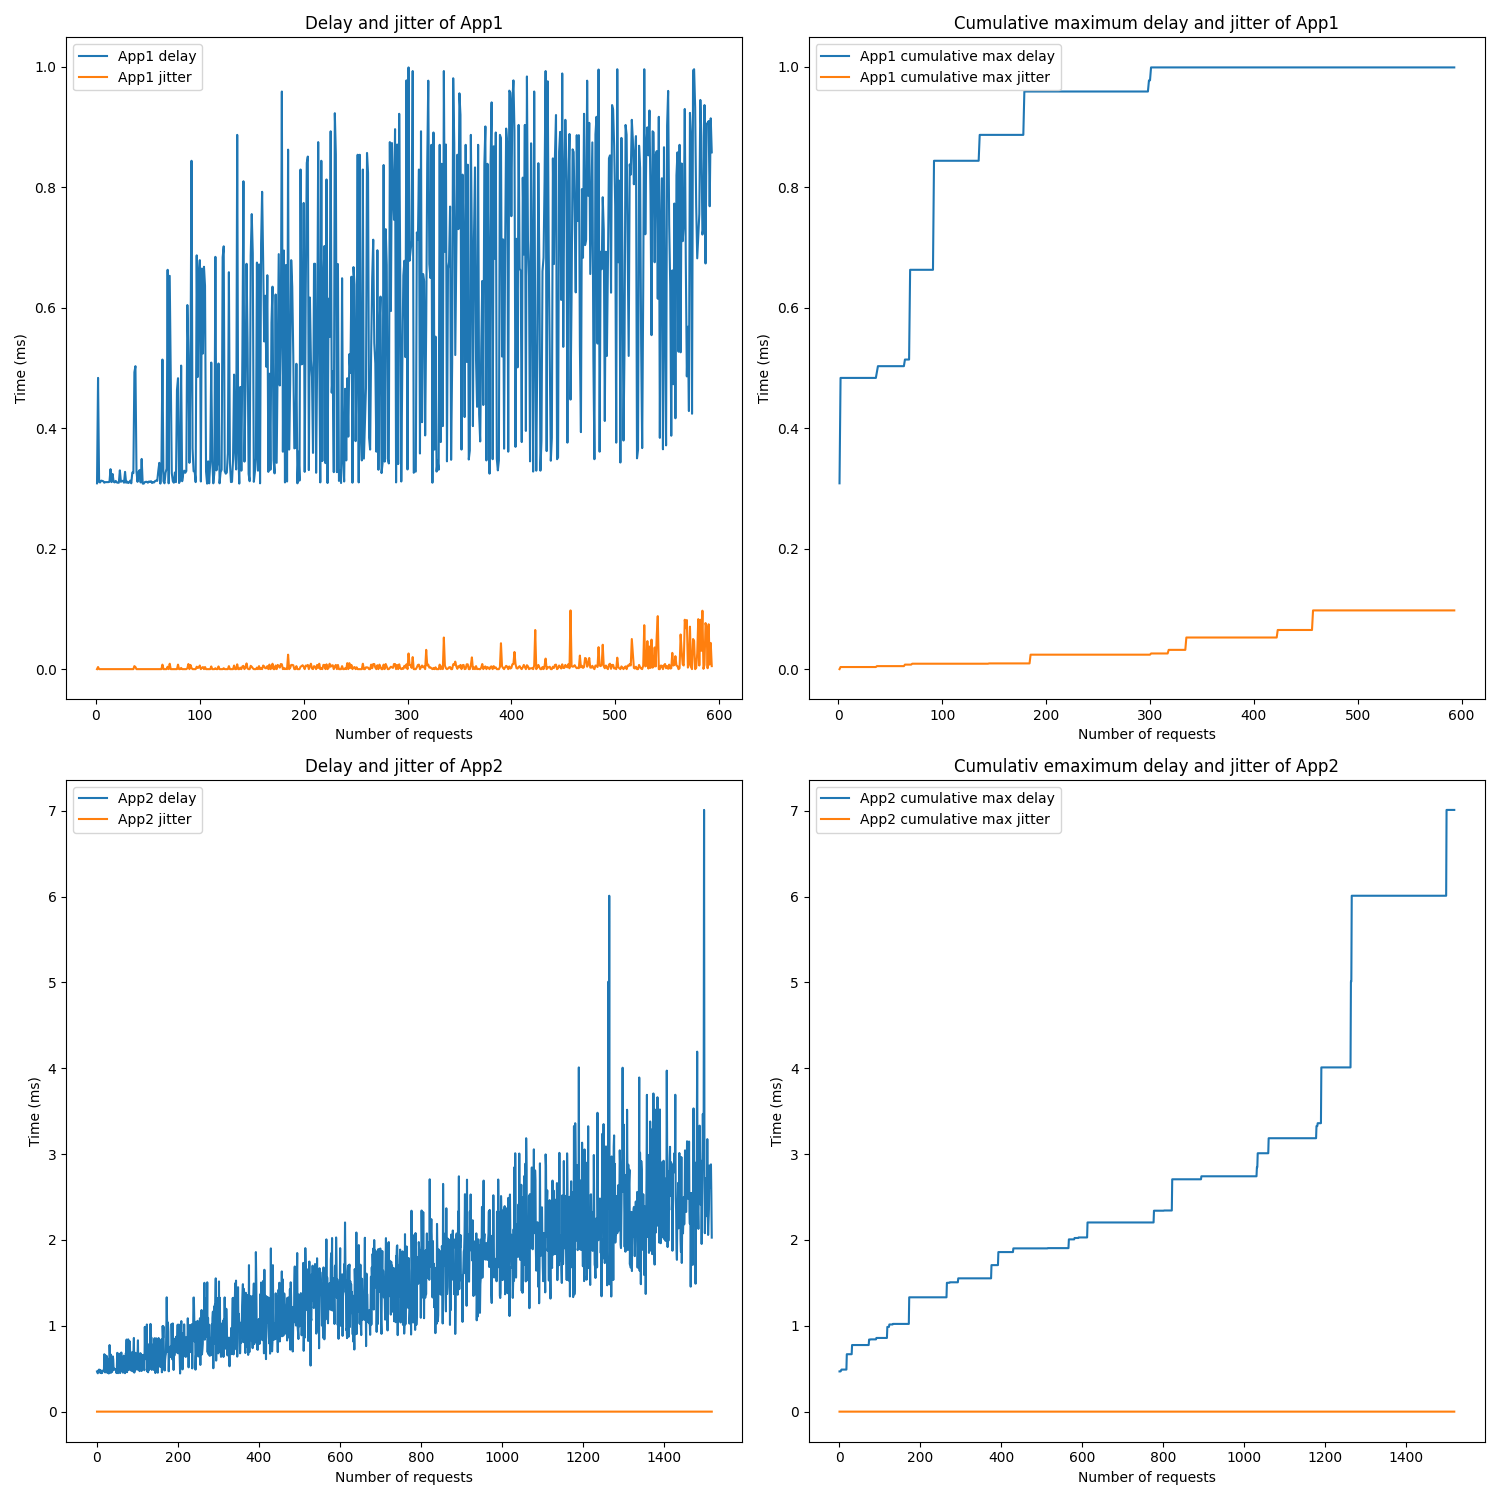
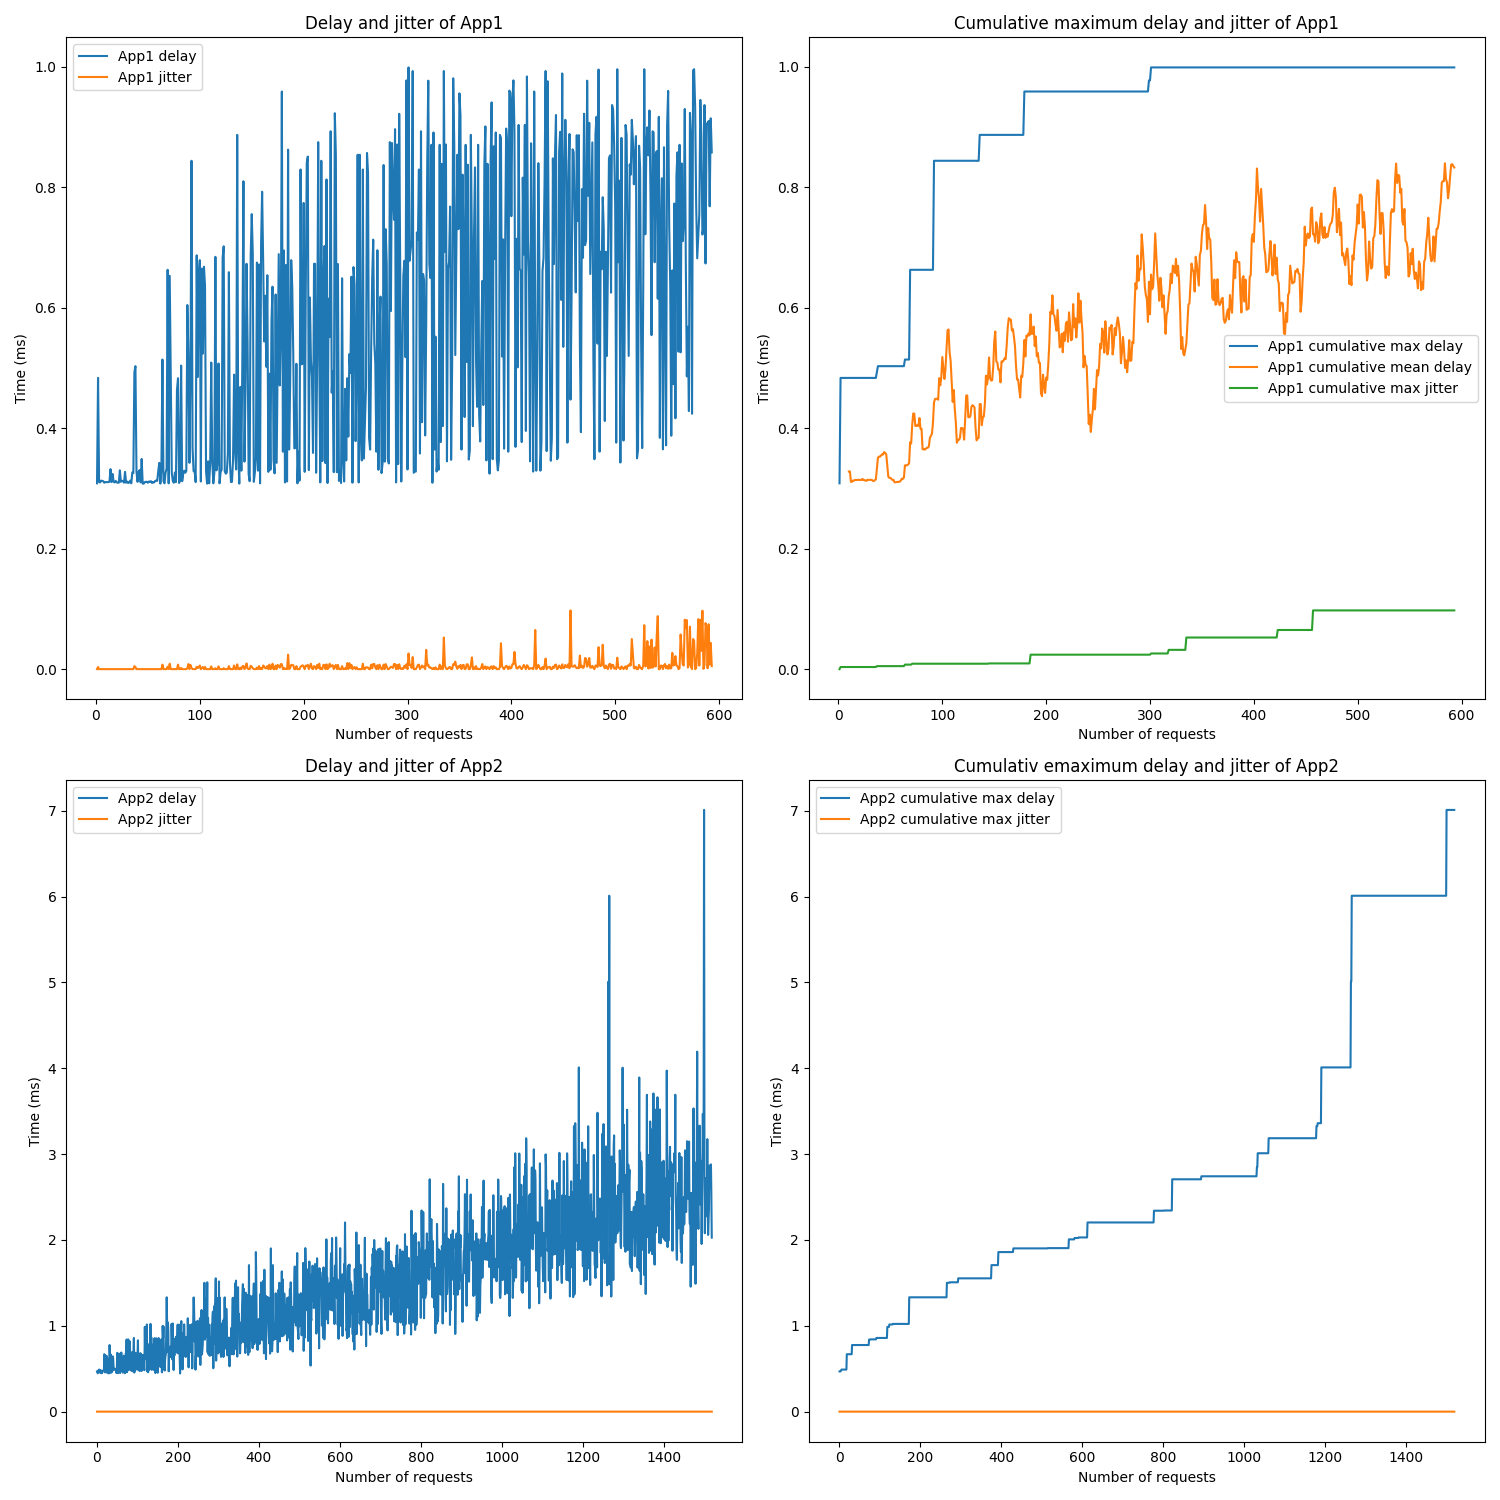
Validation results instance_T13 [Autocommit]

Changed region(s): [[0.5827, 0.1227, 0.9813, 0.3373], [0.552, 0.0307, 0.7053, 0.0613]]

diff --git a/instance_generator/generate_graph.py b/instance_generator/generate_graph.py
@@ -242,7 +242,7 @@ ax[0,0].set_ylabel('Time (ms)')
 ax[0,0].set_title('Delay and jitter of App1')
 
 ax[0,1].plot(app1_n_requests, app1_cumulative_delay, label='App1 cumulative max delay')
-ax[0,1].plot(app1_n_requests, df['mean10_delay_app1'], label='App1 cumulative mean delay')
+ax[0,1].plot(app1_n_requests, app1_filtered['mean10_delay_app1'], label='App1 cumulative mean delay')
 
 ax[0,1].plot(app1_n_requests, app1_cumulative_jitter, label='App1 cumulative max jitter')
 ax[0,1].legend()
